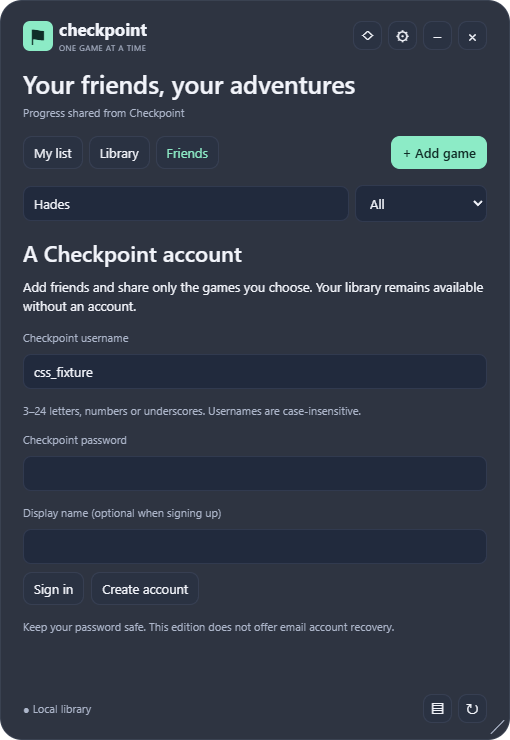
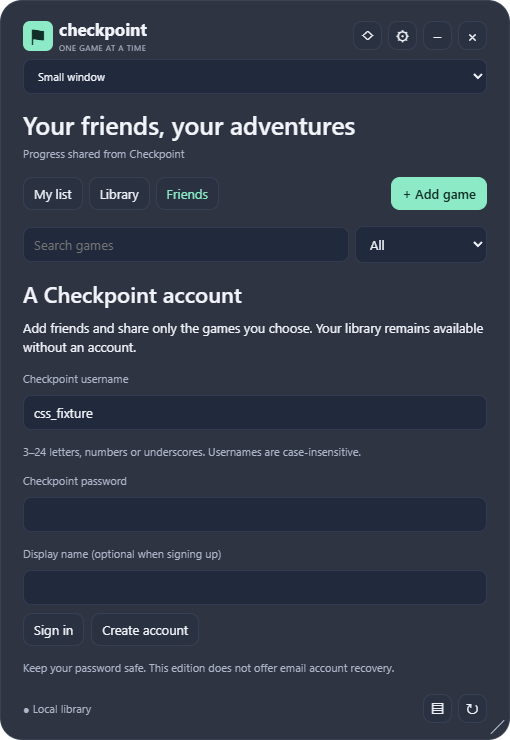
Add full, small and miniature window modes with opaque full view

diff --git a/src/Checkpoint.App/Web/app.js b/src/Checkpoint.App/Web/app.js
@@ -25,6 +25,7 @@ function showMenu(game, x, y) {
     menu.append(el('hr')); entry(state.labels.edit, 'edit', { id: game.id }); menu.append(el('hr'));
   }
   if (state.mini) entry(state.labels.exitMini, 'exit-mini');
+  [state.labels.fullWindow,state.labels.smallWindow,state.labels.miniature].forEach((label,value)=>entry(label,'window-mode',{value},value===(state.mini?2:state.full?0:1)));
   entry(state.labels.settings, 'settings'); entry(state.labels.search, 'search'); entry(state.labels.add, 'add');
   menu.append(el('hr')); entry(state.labels.pin, 'pin', {}, state.pinned); entry(state.labels.locked, 'lock', {}, state.locked);
   document.body.append(menu);
@@ -86,6 +87,7 @@ function frame() {
   const wordmark = el('div'); wordmark.append(el('strong', '', 'checkpoint'), el('div', 'tagline')); brand.append(wordmark);
   brand.addEventListener('pointerdown', e => { if (e.button === 0 && !state.locked) action('drag'); }); header.append(brand);
   for (const [icon, name, label] of [['◇','pin','pin'], ['⚙','settings','settings'], ['−','hide','hide'], ['×','close','close']]) { const node = button(icon, name, icon, {}, 'icon'); node.dataset.label = label; header.append(node); }
+  const modes=el('select','window-mode'); modes.setAttribute('aria-label','Checkpoint'); modes.addEventListener('change',()=>action('window-mode',{value:Number(modes.value)})); header.append(modes);
   const intro = el('section', 'intro'); intro.append(el('h1'), el('div', 'summary'));
   const navigation = el('nav', 'navigation');
   for (const name of ['list','library','friends']) { const node = button('', 'tab', '', { value: name }); node.dataset.tab = name; navigation.append(node); }
@@ -104,7 +106,8 @@ function frame() {
 }
 function renderMain() {
   if (dialogMode || !root.querySelector('.window')) frame(); dialogMode = false;
-  const host = root.querySelector('.window'); host.classList.toggle('mini', state.mini);
+  const host = root.querySelector('.window'); host.classList.toggle('mini', state.mini); host.classList.toggle('full',state.full);
+  const modes=host.querySelector('.window-mode'); modes.replaceChildren(); [state.labels.fullWindow,state.labels.smallWindow,state.labels.miniature].forEach((text,index)=>{const option=el('option','',text);option.value=index;modes.append(option);}); modes.value=state.mini?2:state.full?0:1; modes.setAttribute('aria-label',state.labels.windowMode);
   host.style.setProperty('--opacity', state.opacity); host.style.setProperty('--mini-size', `${state.textSize}px`);
   host.querySelector('.tagline').textContent = state.labels.tagline;
   host.querySelector('h1').textContent = state.tab === 'friends' ? state.labels.friendsTitle : state.labels.title;
@@ -112,10 +115,10 @@ function renderMain() {
   host.querySelectorAll('[data-label]').forEach(node => { const label = state.labels[node.dataset.label]; node.title = label; node.setAttribute('aria-label', label); if (node.classList.contains('add')) node.textContent = '+ '+label; });
   host.querySelectorAll('[data-tab]').forEach(node => { node.textContent = state.labels[node.dataset.tab]; node.classList.toggle('active', state.tab === node.dataset.tab); });
   const search = host.querySelector('#search'); if ((pending.get('search')||0) <= (state.ack||0) && search.value !== state.search) search.value = state.search; search.placeholder = state.labels.search; search.setAttribute('aria-label',state.labels.search);
-  const filter = host.querySelector('select'); filter.replaceChildren(); [state.labels.all,...state.labels.statuses].forEach((text,index) => { const option=el('option','',text); option.value=index; filter.append(option); }); filter.value = state.filter;
+  const filter = host.querySelector('.searchbar select'); filter.replaceChildren(); [state.labels.all,...state.labels.statuses].forEach((text,index) => { const option=el('option','',text); option.value=index; filter.append(option); }); filter.value = state.filter;
   host.querySelector('.connection').textContent = state.connection; host.querySelector('.notice').textContent = state.notice;
   host.querySelector('[data-label="undo"]').hidden = !state.undo; host.querySelector('[data-label="sync"]').disabled = state.busy;
-  host.querySelector('.resize').hidden = state.locked; host.querySelector('.dragstrip').hidden = !state.mini; host.querySelector('[data-label="pin"]').textContent = state.pinned ? '◆' : '◇';
+  host.querySelector('.resize').hidden = state.locked || state.full; host.querySelector('.dragstrip').hidden = !state.mini; host.querySelector('[data-label="pin"]').textContent = state.pinned ? '◆' : '◇';
   host.querySelector('[data-label="view"]').textContent = state.mini ? '☷' : state.grid ? '▦' : state.compact ? '≡' : '▤';
   if (selected && !state.games.some(game => game.id === selected)) selected = undefined;
   if (state.tab === 'friends') preserveTree(() => { const viewport=host.querySelector('.viewport'); const content=el('div','friends-content'); content.append(schema(state.friends)); if (state.friendsBusy) content.querySelectorAll('button,input,select').forEach(node=>node.disabled=true); viewport.replaceChildren(content); });

diff --git a/src/Checkpoint.App/Web/app.css b/src/Checkpoint.App/Web/app.css
@@ -24,3 +24,5 @@ input[type="checkbox"] { accent-color:var(--accent); width:16px; min-height:16px
 .type-text { white-space:pre-wrap; overflow-wrap:anywhere; line-height:1.45; } .type-text.heading { font-size:22px; font-weight:600; } .type-text.muted { margin-top:6px; font-size:11px; } .type-check { display:flex; align-items:center; gap:8px; line-height:1.4; } .type-image { max-width:100%; max-height:140px; border-radius:8px; object-fit:cover; } .type-details>summary { cursor:pointer; margin:8px 0; }
 .type-dock { display:flex; flex-direction:column; gap:8px; padding:20px; min-height:100%; } .type-dock>button { order:2; align-self:flex-end; } .type-dock>.type-scroll { flex:1; } .friends-content>.type-scroll { overflow:visible; } .friends-content .type-row>button { padding:7px 10px; }
 @media (max-width:400px) { .window:not(.mini) { padding:17px 18px 16px; } .navigation { gap:4px; } .navigation button { padding:7px 8px; } .searchbar select { width:115px; } }
+
+.window-mode { width:135px; min-width:0; font-size:11px; } .window.full { border-radius:0; padding:24px 32px; } .window.full .brand { cursor:default; } @media(max-width:540px) { .header { flex-wrap:wrap; } .window-mode { width:100%; order:2; } }

diff --git a/src/Checkpoint.App/WebSmokeTests.cs b/src/Checkpoint.App/WebSmokeTests.cs
@@ -22,7 +22,7 @@ public partial class MainWindow
             throw new TimeoutException("CSS UI condition timed out");
         }
         async Task<bool> Script(WebSurface surface,string script) => await surface.Browser.CoreWebView2.ExecuteScriptAsync(script) == "true";
-        async Task Run(string script) { await web!.Browser.CoreWebView2.ExecuteScriptAsync(script); await Task.Delay(350); }
+        async Task Run(string script) { await web!.Browser.CoreWebView2.ExecuteScriptAsync("(() => {"+script+"})()"); await Task.Delay(350); }
         async Task<WebSurface> Dialog()
         {
             WebSurface? found=null;
@@ -87,7 +87,7 @@ public partial class MainWindow
             Check(await Script(web,"document.activeElement.matches('.minirow')"),"CSS Miniature keyboard navigation focuses an HTML game row");
             var activeGameId=Guid.Parse(JsonSerializer.Deserialize<string>(await web.Browser.CoreWebView2.ExecuteScriptAsync("document.activeElement.dataset.game"))!);
             await Run("document.dispatchEvent(new KeyboardEvent('keydown',{key:'Enter',bubbles:true}));");
-            Check(await Script(web,"document.querySelectorAll('.menu button[role=menuitemradio]').length===7"),"Miniature state and window actions render in an HTML context menu");
+            Check(await Script(web,"document.querySelectorAll('.menu button[role=menuitemradio]').length===10"),"Miniature state and window actions render in an HTML context menu");
             await Run("[...document.querySelectorAll('.menu button')].find(b=>b.textContent.includes('Playing')).click();");
             Check(Store.LoadGames().Single(g=>g.Id==activeGameId).Status==GameStatus.Playing,"HTML state actions persist through the native controller");
             await Capture(web,"css-miniature-en.png");
@@ -133,6 +133,27 @@ public partial class MainWindow
             Check(await Script(notice,"document.body.innerText.includes('The operation could not be completed') && [...document.querySelectorAll('button')].some(b=>b.textContent==='OK')"),"app notices render English text and buttons in CSS");
             await Capture(notice,"css-notice-en.png");
             await notice.Browser.CoreWebView2.ExecuteScriptAsync("document.querySelector('button').click();"); await Task.Delay(200);
+            double smallWidth=Width, smallHeight=Height;
+            Preferences.BackgroundOpacity=.61; Persist(); Refresh();
+            await Run("const mode=document.querySelector('.window-mode');mode.value=0;mode.dispatchEvent(new Event('change',{bubbles:true}));");
+            var area=System.Windows.Forms.Screen.FromHandle(new System.Windows.Interop.WindowInteropHelper(this).Handle).WorkingArea;
+            var dpi=System.Windows.Media.VisualTreeHelper.GetDpi(this);
+            Check(IsFullWindow && Math.Abs(Width-area.Width/dpi.DpiScaleX)<2 && Math.Abs(Height-area.Height/dpi.DpiScaleY)<2 && await Script(web,"window.checkpointState.opacity===1 && getComputedStyle(document.querySelector('.window')).borderRadius==='0px'"),"full window fills monitor work area and renders at maximum opacity");
+            Check(Store.LoadSettings().FullWindow && Math.Abs(Store.LoadSettings().Width-smallWidth)<2 && Math.Abs(Store.LoadSettings().BackgroundOpacity-.61)<.001,"full window saves its mode without overwriting small dimensions or translucency");
+            await Capture(web,"css-full-window-en.png");
+            await Run("const mode=document.querySelector('.window-mode');mode.value=1;mode.dispatchEvent(new Event('change',{bubbles:true}));");
+            Check(!IsFullWindow && Math.Abs(Width-smallWidth)<2 && Math.Abs(Height-smallHeight)<2 && await Script(web,"window.checkpointState.opacity===0.61 && document.querySelector('.window-mode').value==='1'"),"small window restores saved dimensions and translucency");
+            await Run("const mode=document.querySelector('.window-mode');mode.value=2;mode.dispatchEvent(new Event('change',{bubbles:true}));");
+            await Run("document.dispatchEvent(new KeyboardEvent('keydown',{key:'Home',bubbles:true}));document.dispatchEvent(new KeyboardEvent('keydown',{key:'Enter',bubbles:true}));");
+            Check(Preferences.MiniatureView && await Script(web,"[...document.querySelectorAll('.menu button')].some(button=>button.textContent.includes('Full window')) && window.checkpointState.opacity===0.61"),"Miniature keeps translucency and offers all three window modes");
+            await Run("[...document.querySelectorAll('.menu button')].find(button=>button.textContent.includes('Full window')).click();");
+            Check(IsFullWindow && !Preferences.MiniatureView && Store.LoadSettings().FullWindow,"Miniature context menu restores the opaque full window");
+            await Run("document.querySelector('[data-label=settings]').click();");
+            var modesSettings=await Dialog();
+            Check(await Script(modesSettings,"document.querySelector('select[aria-label=\"Window mode\"]').value==='0' && document.body.innerText.includes('100% opacity')"),"settings expose localized window modes and the full-opacity explanation");
+            await modesSettings.Browser.CoreWebView2.ExecuteScriptAsync("const mode=document.querySelector('select[aria-label=\"Window mode\"]');mode.value=1;mode.dispatchEvent(new Event('change',{bubbles:true}));"); await Task.Delay(200);
+            await modesSettings.Browser.CoreWebView2.ExecuteScriptAsync("[...document.querySelectorAll('button')].find(button=>button.textContent==='Save').click();"); await Task.Delay(350);
+            Check(!IsFullWindow && !Preferences.MiniatureView && !Store.LoadSettings().FullWindow,"CSS settings save the small window mode");
             File.WriteAllText(Path.Combine(output,"web-smoke.json"),JsonSerializer.Serialize(new { ok=true, checks=checks.Count, names=checks },DataJson.Options));
             Console.WriteLine("CSS smoke test passed: "+checks.Count+" checks, "+output);
         }

diff --git a/src/Checkpoint.App/MainWindow.xaml.cs b/src/Checkpoint.App/MainWindow.xaml.cs
@@ -46,6 +46,22 @@ public partial class MainWindow : Window
     private Border? dropBorder;
     private int dragScrollDirection;
     private bool? miniatureApplied;
+    private bool fullWindowApplied;
+    internal bool IsFullWindow => Preferences.FullWindow && !Preferences.MiniatureView;
+    internal double EffectiveOpacity => IsFullWindow ? 1 : Preferences.BackgroundOpacity;
+    internal void SetWindowMode(int mode)
+    {
+        if (mode < 0 || mode > 2) return;
+        Preferences.FullWindow = mode == 0; Preferences.MiniatureView = mode == 2;
+        ApplyPreferences(); Persist(); Refresh();
+    }
+    private void FillWorkArea(Forms.Screen? target = null)
+    {
+        var scale = VisualTreeHelper.GetDpi(this);
+        var area = (target ?? Forms.Screen.FromHandle(new WindowInteropHelper(this).Handle)).WorkingArea;
+        Left = area.Left / scale.DpiScaleX; Top = area.Top / scale.DpiScaleY;
+        Width = area.Width / scale.DpiScaleX; Height = area.Height / scale.DpiScaleY;
+    }
 
     public MainWindow(string directory, bool demo)
     {
@@ -149,16 +165,19 @@ public partial class MainWindow : Window
 
     internal void ApplyPreferences()
     {
-        if (miniatureApplied != Preferences.MiniatureView)
+        if (miniatureApplied != Preferences.MiniatureView || fullWindowApplied != IsFullWindow)
         {
             var currentScreen = ready ? Forms.Screen.FromHandle(new WindowInteropHelper(this).Handle) : null;
             if (miniatureApplied.HasValue) CaptureBounds();
+            bool leavingFull = fullWindowApplied;
             miniatureApplied = Preferences.MiniatureView;
+            fullWindowApplied = IsFullWindow;
             MinWidth = Preferences.MiniatureView ? 240 : 365;
             MinHeight = Preferences.MiniatureView ? 90 : 440;
             Width = Math.Clamp(Preferences.MiniatureView ? Preferences.MiniatureWidth : Preferences.Width, MinWidth, SystemParameters.VirtualScreenWidth);
             Height = Math.Clamp(Preferences.MiniatureView ? Preferences.MiniatureHeight : Preferences.Height, MinHeight, SystemParameters.VirtualScreenHeight);
-            if (ready) ClampToScreen(currentScreen);
+            if (fullWindowApplied) FillWorkArea(currentScreen);
+            else { if (leavingFull) { Left = Preferences.Left ?? Left; Top = Preferences.Top ?? Top; } if (ready) ClampToScreen(currentScreen); }
             if (Preferences.MiniatureView) { friendsVisible = false; allLibrary = false; Search.Clear(); StatusFilter.SelectedIndex = 0; }
         }
         bool miniature = Preferences.MiniatureView;
@@ -186,10 +205,10 @@ public partial class MainWindow : Window
         resources["LineBrush"] = Brush(light ? "#607D8EA1" : "#405F6B85");
         resources["AccentBrush"] = Brush(light ? "#FF0B7554" : "#FF8CEBC6");
         var rgb = light ? Color.FromRgb(238, 244, 248) : Color.FromRgb(17, 24, 39);
-        rgb.A = (byte)Math.Round(Math.Clamp(Preferences.BackgroundOpacity, .35, 1) * 255);
+        rgb.A = (byte)Math.Round(Math.Clamp(EffectiveOpacity, .35, 1) * 255);
         Shell.Background = new SolidColorBrush(rgb);
         Topmost = Preferences.AlwaysOnTop; PinButton.Content = Topmost ? "◆" : "◇";
-        ResizeGrip.Visibility = Preferences.PositionLocked ? Visibility.Collapsed : Visibility.Visible;
+        ResizeGrip.Visibility = Preferences.PositionLocked || IsFullWindow ? Visibility.Collapsed : Visibility.Visible;
         timer.Interval = TimeSpan.FromMinutes(Math.Clamp(Preferences.SyncMinutes, 15, 120));
         Covers.SetEnabled(!Preferences.LightweightMode && !miniature);
         ViewButton.Content = miniature ? "☷" : Preferences.GridView ? "▦" : Preferences.Compact ? "≡" : "▤";
@@ -202,6 +221,7 @@ public partial class MainWindow : Window
     internal void Persist() { CaptureBounds(); Store.Save(Games, Preferences); SchedulePublications(); }
     private void CaptureBounds()
     {
+        if (fullWindowApplied) return;
         if (miniatureApplied == true) { Preferences.MiniatureWidth = Width; Preferences.MiniatureHeight = Height; }
         else { Preferences.Width = Width; Preferences.Height = Height; }
         Preferences.Left = Left; Preferences.Top = Top;
@@ -517,7 +537,7 @@ public partial class MainWindow : Window
         });
         Persist(); Notice(I18n.T("Juegos de ejemplo añadidos. El progreso de Steam aún no se ha consultado."));
     }
-    internal void ShowWidget() { Show(); WindowState = WindowState.Normal; if (ready) ClampToScreen(); Activate(); }
+    internal void ShowWidget() { Show(); WindowState = WindowState.Normal; if (ready) { if (IsFullWindow) FillWorkArea(); else ClampToScreen(); } Activate(); }
     private void ToggleVisible() { if (IsVisible) Hide(); else ShowWidget(); }
     internal void Exit() { exiting = true; Close(); }
     protected override void OnClosing(CancelEventArgs e)

diff --git a/src/Checkpoint.App/WebInterface.cs b/src/Checkpoint.App/WebInterface.cs
@@ -23,7 +23,7 @@ public partial class MainWindow
     private object WebSnapshot() => new
     {
         kind="main", language=I18n.Language, light=Preferences.LightTheme,
-        opacity=Preferences.BackgroundOpacity, mini=Preferences.MiniatureView, compact=Preferences.Compact,
+        opacity=EffectiveOpacity, full=IsFullWindow, mini=Preferences.MiniatureView, compact=Preferences.Compact,
         grid=Preferences.GridView, textSize=Preferences.MiniatureTextSize, locked=Preferences.PositionLocked,
         pinned=Preferences.AlwaysOnTop, lightweight=Preferences.LightweightMode, busy=syncing,
         tab=friendsVisible ? "friends" : allLibrary ? "library" : "list", search=Search.Text, filter=StatusFilter.SelectedIndex,
@@ -36,6 +36,7 @@ public partial class MainWindow
             steam=I18n.T("Conectar Steam"), edit=I18n.T("Editar juego"), exitMini=I18n.T("Salir de miniatura"),
             locked=I18n.T("Bloquear posición y tamaño"), view=I18n.T("Cambiar vista"), undo=I18n.T("Recuperar último juego eliminado"),
             examples=I18n.T("Añadir ejemplos"), finish=I18n.T("Marcar o desmarcar historia terminada"),
+            windowMode=I18n.T("Modo de ventana"), fullWindow=I18n.T("Ventana completa"), smallWindow=I18n.T("Ventana pequeña"), miniature=I18n.T("Miniatura"),
             all=I18n.T("Todos"), statuses=Enum.GetValues<GameStatus>().Select(Labels.Status).ToArray() },
         games=(friendsVisible ? Enumerable.Empty<CardView>() : visibleCards).Select(card => new { id=card.Model.Id, title=card.Model.Title, platform=card.Model.Platform,
             state=(int)card.Model.Status, status=card.Model.StatusText, next=card.Model.NextTask,
@@ -53,6 +54,7 @@ public partial class MainWindow
         switch (action)
         {
             case "ready": break;
+            case "window-mode": if (message.GetProperty("value").TryGetInt32(out int mode)) SetWindowMode(mode); break;
             case "tab":
                 switch (message.GetProperty("value").GetString()) { case "friends": Click(FriendsButton); break; case "library": Click(LibraryButton); break; case "list": Click(TrackedButton); break; }
                 break;
@@ -76,9 +78,9 @@ public partial class MainWindow
             case "exit-mini": Preferences.MiniatureView=false; ApplyPreferences(); Persist(); Refresh(); break;
             case "hide": Hide(); break;
             case "close": Close(); break;
-            case "drag": if (!Preferences.PositionLocked && System.Windows.Input.Mouse.LeftButton == System.Windows.Input.MouseButtonState.Pressed) DragMove(); break;
+            case "drag": if (!IsFullWindow && !Preferences.PositionLocked && System.Windows.Input.Mouse.LeftButton == System.Windows.Input.MouseButtonState.Pressed) DragMove(); break;
             case "resize":
-                if (!Preferences.PositionLocked && message.GetProperty("x").TryGetDouble(out double x) && message.GetProperty("y").TryGetDouble(out double y) && double.IsFinite(x) && double.IsFinite(y))
+                if (!IsFullWindow && !Preferences.PositionLocked && message.GetProperty("x").TryGetDouble(out double x) && message.GetProperty("y").TryGetDouble(out double y) && double.IsFinite(x) && double.IsFinite(y))
                 { Width=Math.Clamp(Width+Math.Clamp(x,-200,200),MinWidth,SystemParameters.VirtualScreenWidth); Height=Math.Clamp(Height+Math.Clamp(y,-200,200),MinHeight,SystemParameters.VirtualScreenHeight); }
                 break;
             case "move" when game is not null:

diff --git a/src/Checkpoint.App/Dialogs.cs b/src/Checkpoint.App/Dialogs.cs
@@ -227,6 +227,11 @@ internal static class Dialogs
         opacity.ValueChanged += (_, _) => { prefs.BackgroundOpacity = opacity.Value; opacityText.Text = (int)(opacity.Value * 100) + I18n.T("% · textos y carátulas permanecen legibles"); owner.ApplyPreferences(); };
         opacityText.Text = (int)(opacity.Value * 100) + I18n.T("% · textos y carátulas permanecen legibles");
         var top = Check(body, I18n.T("Mantener siempre visible"), prefs.AlwaysOnTop); var position = Check(body, I18n.T("Bloquear posición y tamaño"), prefs.PositionLocked);
+        Label(body, I18n.T("Modo de ventana"));
+        int initialMode = prefs.MiniatureView ? 2 : prefs.FullWindow ? 0 : 1;
+        var windowMode = new ComboBox { ItemsSource = new[] { I18n.T("Ventana completa"), I18n.T("Ventana pequeña"), I18n.T("Miniatura") }, SelectedIndex = initialMode };
+        System.Windows.Automation.AutomationProperties.SetName(windowMode, I18n.T("Modo de ventana")); body.Children.Add(windowMode);
+        body.Children.Add(new TextBlock { Text = I18n.T("La ventana completa ocupa el área de trabajo y utiliza opacidad al 100 %. La pequeña y Miniatura conservan tu opacidad."), TextWrapping = TextWrapping.Wrap, FontSize = 11 });
         Label(body, I18n.T("Vista de la colección"));
         var view = new ComboBox { ItemsSource = new[] { I18n.T("Lista"), I18n.T("Compacta"), I18n.T("Cuadrícula de carátulas"), I18n.T("Miniatura") }, SelectedIndex = prefs.MiniatureView ? 3 : prefs.GridView ? 2 : prefs.Compact ? 1 : 0 };
         System.Windows.Automation.AutomationProperties.SetName(view, I18n.T("Vista de la colección")); body.Children.Add(view);
@@ -285,8 +290,9 @@ internal static class Dialogs
                 if (!string.IsNullOrWhiteSpace(endpoint.Text)) SteamClient.ValidateServiceUrl(endpoint.Text);
                 if ((startup.IsChecked == true) != prefs.StartWithWindows) SetStartup(startup.IsChecked == true);
                 prefs.BackgroundOpacity = opacity.Value; prefs.AlwaysOnTop = top.IsChecked == true; prefs.PositionLocked = position.IsChecked == true;
-                prefs.MiniatureView = view.SelectedIndex == 3;
-                if (!prefs.MiniatureView) { prefs.Compact = view.SelectedIndex == 1; prefs.GridView = view.SelectedIndex == 2; }
+                prefs.FullWindow = windowMode.SelectedIndex == 0;
+                prefs.MiniatureView = windowMode.SelectedIndex != initialMode ? windowMode.SelectedIndex == 2 : view.SelectedIndex == 3;
+                if (!prefs.MiniatureView && view.SelectedIndex != 3) { prefs.Compact = view.SelectedIndex == 1; prefs.GridView = view.SelectedIndex == 2; }
                 prefs.LightTheme = light.IsChecked == true; prefs.CloseToTray = tray.IsChecked == true; prefs.StartWithWindows = startup.IsChecked == true;
                 prefs.ServiceUrl = endpoint.Text.Trim(); prefs.SyncMinutes = new[] { 15, 30, 60, 120 }[interval.SelectedIndex];
                 prefs.Language = language.SelectedIndex == 1 ? "en" : "es";

diff --git a/tests/Checkpoint.Tests/Program.cs b/tests/Checkpoint.Tests/Program.cs
@@ -107,4 +107,11 @@ var resourceKeys = JsonSerializer.Deserialize<Dictionary<string,string>>(File.Re
 Check(resourceKeys.Values.All(key => I18n.TryTranslateKnown(key, out _)), "all XAML strings have English translations");
 Check(translatedLiterals > 250, "all literal app and core messages have English translations");
 I18n.SetLanguage("es");
+Check(!JsonSerializer.Deserialize<Settings>("{\"Width\":480,\"MiniatureView\":false}")!.FullWindow, "previous settings retain the small window default");
+using (var modes = new SqliteStore(Path.Combine(root,"window-modes")))
+{
+    modes.SaveSettings(new Settings { FullWindow=true, Width=480, Height=650, BackgroundOpacity=.57 });
+    var restored=modes.LoadSettings();
+    Check(restored.FullWindow && restored.Width==480 && restored.Height==650 && restored.BackgroundOpacity==.57,"full window preference retains small dimensions and opacity through SQLite reload");
+}
 Console.WriteLine($"{passed} checks passed. Test files: {root}");

diff --git a/src/Checkpoint.Core/Models.cs b/src/Checkpoint.Core/Models.cs
@@ -85,6 +85,7 @@ public sealed class Settings
     public bool PositionLocked { get; set; }
     public bool Compact { get; set; }
     public bool GridView { get; set; }
+    public bool FullWindow { get; set; }
     public bool MiniatureView { get; set; }
     public double MiniatureWidth { get; set; } = 300;
     public double MiniatureHeight { get; set; } = 220;

diff --git a/README.es.md b/README.es.md
@@ -18,12 +18,12 @@ Capturas de la interfaz HTML/CSS real en WebView2 con datos de prueba aislados. 
 
 ## Descargar y utilizar
 
-La versión actual es **0.7.0**. En la carpeta `dist` se generan:
+La versión actual es **0.7.1**. En la carpeta `dist` se generan:
 
-Descarga el portable o instalador desde [GitHub Releases](https://github.com/Nicolasmf05/Checkpoint/releases/tag/v0.7.0), o compila con las instrucciones de este repositorio. El workflow **Build and verify** también genera el ZIP y MSI como artefactos cuando finaliza correctamente.
+Descarga el portable o instalador desde [GitHub Releases](https://github.com/Nicolasmf05/Checkpoint/releases/tag/v0.7.1), o compila con las instrucciones de este repositorio. El workflow **Build and verify** también genera el ZIP y MSI como artefactos cuando finaliza correctamente.
 
-- `Checkpoint-0.7.0-win-x64.msi`: instalador por usuario con acceso en el menú Inicio y desinstalación desde Windows.
-- `Checkpoint-0.7.0-win-x64.zip`: edición portable. Extrae el ZIP y abre `Checkpoint/Checkpoint.exe`. Todos los archivos quedan dentro de la carpeta `Checkpoint`.
+- `Checkpoint-0.7.1-win-x64.msi`: instalador por usuario con acceso en el menú Inicio y desinstalación desde Windows.
+- `Checkpoint-0.7.1-win-x64.zip`: edición portable. Extrae el ZIP y abre `Checkpoint/Checkpoint.exe`. Todos los archivos quedan dentro de la carpeta `Checkpoint`.
 - Archivos `.sha256`: comprobación de integridad.
 
 Los paquetes incluyen el runtime de .NET; el usuario no necesita instalar herramientas de desarrollo. La versión x64 está dirigida a Windows 11; Windows 10 no ha sido validado. La compilación ARM64 está preparada en el script, pero no se ha probado en hardware ARM.
@@ -41,6 +41,10 @@ WebView2 se comparte con otras aplicaciones y viene incluido en Windows 11. Si f
 ## Tecnología de la interfaz
 
 La colección, Miniatura, amigos, editores, ajustes y avisos propios se muestran con **HTML, CSS y JavaScript locales en WebView2**. El diseño se modifica en `src/Checkpoint.App/Web/app.css`. C#/.NET conserva SQLite, Steam, Supabase, bandeja y ventana nativa. WPF sigue como contenedor y controladores de formularios; los selectores de archivos de Windows y el aviso de falta de WebView2 son nativos. Sin framework JavaScript ni interfaz remota. [Arquitectura y desarrollo](docs/CSS-INTERFACE.md).
+
+## Modos de ventana
+
+Usa el selector de la cabecera o Ajustes → Modo de ventana: **Ventana completa**, **Ventana pequeña**, **Miniatura**. La completa ocupa el área de trabajo del monitor actual, dejando disponible la barra de tareas, y utiliza siempre **opacidad al 100 %**. La pequeña recupera su tamaño guardado y opacidad elegida. Miniatura conserva la lista de nombre/estado y su tamaño independiente; con clic derecho puedes elegir cualquiera de los tres modos. La elección se guarda al reiniciar. Las vistas de colección (lista, compacta, cuadrícula) son independientes.
 
 ## Incluido
 
@@ -149,7 +153,7 @@ dotnet run --project src/Checkpoint.App -c Release --no-build -- --data-dir "$PW
 
 Usa siempre una carpeta nueva para `--smoke-test`: esta comprobación modifica su biblioteca de prueba y rechaza una carpeta con biblioteca o sesión existentes. El modo `--demo` añade tres juegos de ejemplo únicamente a una biblioteca vacía. No inventa logros. Las pruebas de Steam y las pruebas del diálogo de logros usan respuestas simuladas y no necesitan contraseñas ni claves reales.
 
-`Build.ps1` comprueba también el ZIP recién generado: lo extrae a `.qa`, ejecuta su app autocontenida y valida búsqueda, vistas, reordenación, persistencia, diálogos, secretos, recuperación, copias con imágenes, cuentas y amistades simuladas, y virtualización con 1.003 juegos. Puedes repetir solo esa comprobación con `./scripts/Verify-Package.ps1 -ZipPath ./dist/Checkpoint-0.7.0-win-x64.zip`. También se ejecuta la interfaz HTML real con 1.004 juegos, formularios, menús y cambios de idioma. Las imágenes y los informes quedan en `.qa/package-…/render` y `.qa/web-package-…/render`. La ejecución ARM64 necesita un equipo Windows ARM64; en otros equipos se comprueba la estructura del paquete.
+`Build.ps1` comprueba también el ZIP recién generado: lo extrae a `.qa`, ejecuta su app autocontenida y valida búsqueda, vistas, reordenación, persistencia, diálogos, secretos, recuperación, copias con imágenes, cuentas y amistades simuladas, y virtualización con 1.003 juegos. Puedes repetir solo esa comprobación con `./scripts/Verify-Package.ps1 -ZipPath ./dist/Checkpoint-0.7.1-win-x64.zip`. También se ejecuta la interfaz HTML real con 1.004 juegos, formularios, menús y cambios de idioma. Las imágenes y los informes quedan en `.qa/package-…/render` y `.qa/web-package-…/render`. La ejecución ARM64 necesita un equipo Windows ARM64; en otros equipos se comprueba la estructura del paquete.
 
 La integración con una cuenta real y la instalación/desinstalación del MSI deben validarse en un entorno de lanzamiento antes de publicar. Consulta [docs/VALIDATION.md](docs/VALIDATION.md).
 
@@ -159,11 +163,11 @@ El proyecto incluye `.gitignore`, licencia MIT, documentación, pruebas y un wor
 
 Publica únicamente los archivos de código y documentación. `.tools`, `.qa`, `dist`, `.env`, bases de datos y tokens son locales y se excluyen.
 
-También se entrega `dist/Checkpoint-source-0.7.0.zip`, con el código limpio para trasladarlo a GitHub. `scripts/Export-Source.ps1` lo regenera usando ripgrep y las exclusiones de `.gitignore`. La versión de los ejecutables, nombres de archivo e instalador se toma de `Directory.Build.props`.
+También se entrega `dist/Checkpoint-source-0.7.1.zip`, con el código limpio para trasladarlo a GitHub. `scripts/Export-Source.ps1` lo regenera usando ripgrep y las exclusiones de `.gitignore`. La versión de los ejecutables, nombres de archivo e instalador se toma de `Directory.Build.props`.
 
 ## Próximas versiones
 
-El backend de cuentas y amistades está desplegado en Supabase y la app 0.7.0 incorpora la pestaña Amigos. Han pasado 33 comprobaciones SQL y 7 HTTP del backend; queda validar el registro y el intercambio de imágenes con dos cuentas reales. El estado, configuración pública y pasos pendientes están en [docs/SUPABASE.md](docs/SUPABASE.md).
+El backend de cuentas y amistades está desplegado en Supabase y la app 0.7.1 incorpora la pestaña Amigos. Han pasado 33 comprobaciones SQL y 7 HTTP del backend; queda validar el registro y el intercambio de imágenes con dos cuentas reales. El estado, configuración pública y pasos pendientes están en [docs/SUPABASE.md](docs/SUPABASE.md).
 
 Notificaciones, estadísticas mensuales y sincronización de la biblioteca entre equipos quedan para futuras versiones. Consulta [docs/ROADMAP.md](docs/ROADMAP.md) y [CHANGELOG.md](CHANGELOG.md).
 
@@ -175,4 +179,4 @@ La app incluye la dirección del servicio Steam de Supabase, ya desplegado y con
 
 Los avisos, menús y ventanas de Checkpoint siguen el idioma elegido en Ajustes. Los errores técnicos externos se muestran como explicaciones traducidas. Los títulos de juegos, notas, tareas y nombres de personas conservan su contenido. Los cuadros del sistema, como el selector de archivos o SmartScreen, siguen el idioma de Windows.
 
-Tu código de amigo se muestra y copia completo desde Amigos → Cuenta: `checkpoint-` seguido de 12 caracteres. Usa Checkpoint 0.7.0 o posterior para introducir este formato; también acepta códigos copiados de versiones anteriores sin cambiar la cuenta.
+Tu código de amigo se muestra y copia completo desde Amigos → Cuenta: `checkpoint-` seguido de 12 caracteres. Usa Checkpoint 0.7.1 o posterior para introducir este formato; también acepta códigos copiados de versiones anteriores sin cambiar la cuenta.

diff --git a/README.md b/README.md
@@ -18,13 +18,13 @@ Current captures come from the actual local HTML/CSS interface in WebView2, usin
 
 ## Download and run
 
-Current version: **0.7.0**. Build outputs in `dist`:
+Current version: **0.7.1**. Build outputs in `dist`:
 
-- `Checkpoint-0.7.0-win-x64.zip`: portable edition. Extract the ZIP and open `Checkpoint/Checkpoint.exe`. All files stay inside the `Checkpoint` folder.
-- `Checkpoint-0.7.0-win-x64.msi`: per-user installer with Start menu shortcut and Windows uninstall support.
+- `Checkpoint-0.7.1-win-x64.zip`: portable edition. Extract the ZIP and open `Checkpoint/Checkpoint.exe`. All files stay inside the `Checkpoint` folder.
+- `Checkpoint-0.7.1-win-x64.msi`: per-user installer with Start menu shortcut and Windows uninstall support.
 - `.sha256` files: integrity checksums.
 
-Download the portable ZIP or MSI from [GitHub Releases](https://github.com/Nicolasmf05/Checkpoint/releases/tag/v0.7.0), or build from source below. The **Build and verify** GitHub Actions workflow also produces artifacts after a successful run. Packages include the .NET runtime; end users need no development tools. Windows 11 x64 is the target. Windows 10 and ARM64 hardware have not been validated; ARM64 packaging is supported. The MSI and EXE are unsigned; Windows may warn or block them. See [Windows security messages](docs/en/WINDOWS-SECURITY.md). No private certificates are included.
+Download the portable ZIP or MSI from [GitHub Releases](https://github.com/Nicolasmf05/Checkpoint/releases/tag/v0.7.1), or build from source below. The **Build and verify** GitHub Actions workflow also produces artifacts after a successful run. Packages include the .NET runtime; end users need no development tools. Windows 11 x64 is the target. Windows 10 and ARM64 hardware have not been validated; ARM64 packaging is supported. The MSI and EXE are unsigned; Windows may warn or block them. See [Windows security messages](docs/en/WINDOWS-SECURITY.md). No private certificates are included.
 
 
 Microsoft Store packaging is being prepared separately: [MSIX build and submission guide](docs/en/MICROSOFT-STORE.md). The unsigned MSIX preview is for developer validation and does not remove warnings from the current GitHub downloads.
@@ -36,6 +36,10 @@ Windows x64 (Windows 11 tested), **Microsoft Edge WebView2 Evergreen Runtime**, 
 ## Interface technology
 
 The visible collection, Miniature, friends, editors, settings and app notices use **local HTML, CSS and JavaScript in WebView2**. Style them in `src/Checkpoint.App/Web/app.css`. C#/.NET handles SQLite, Steam, Supabase, the tray and native window. WPF remains the window shell and existing form controllers; Windows file pickers and the missing-runtime notice remain native. No JavaScript framework or remote interface is required. [Architecture and development](docs/en/CSS-INTERFACE.md).
+
+## Window modes
+
+Use the header selector or Settings → Window mode: **Full window**, **Small window**, **Miniature**. Full window fills the current monitor work area, leaving the taskbar available, and always uses **100% opacity**. Small window restores its saved size and chosen opacity. Miniature keeps the names/states-only list and its own saved dimensions; right-click to choose any window mode. The mode persists across restarts. Collection layouts (list, compact, grid) remain separate.
 
 ## Features
 
@@ -127,13 +131,13 @@ dotnet run --project src/Checkpoint.App -c Release --no-build -- --data-dir "$PW
 
 Native tests reject existing libraries/sessions/publications and exercise real controls with simulated Steam/social responses. Demo adds examples only to an empty library. Build extracts and tests its self-contained ZIP, including language switching and virtualized rendering of 1,003 games. The CSS suite separately launches the actual HTML interface with 1,004 games, forms, menus and language changes. Reports and captures: `.qa/package-…/render` and `.qa/web-package-…/render`.
 
-Repeat using `./scripts/Verify-Package.ps1 -ZipPath ./dist/Checkpoint-0.7.0-win-x64.zip`. ARM64 execution needs Windows ARM64 hardware. [Validation](docs/en/VALIDATION.md) lists remaining real-account/Storage and clean-machine MSI checks.
+Repeat using `./scripts/Verify-Package.ps1 -ZipPath ./dist/Checkpoint-0.7.1-win-x64.zip`. ARM64 execution needs Windows ARM64 hardware. [Validation](docs/en/VALIDATION.md) lists remaining real-account/Storage and clean-machine MSI checks.
 
 ## GitHub
 
 MIT license, source, docs and build workflow are included. Set repository variable `CHECKPOINT_SERVICE_URL` for a hosted Steam service. The workflow uploads artifacts but does not publish a release automatically. Never upload `.tools`, `.qa`, `dist`, `.env`, databases, tokens or private keys.
 
-`scripts/Export-Source.ps1` creates `dist/Checkpoint-source-0.7.0.zip` using ripgrep and `.gitignore`. Versions come from `Directory.Build.props`. Built-in translations live in `src/Checkpoint.Core/Localization/en.json`, XAML keys in `src/Checkpoint.App/LocalizationKeys.json`. User content and API wire values are not translated.
+`scripts/Export-Source.ps1` creates `dist/Checkpoint-source-0.7.1.zip` using ripgrep and `.gitignore`. Versions come from `Directory.Build.props`. Built-in translations live in `src/Checkpoint.Core/Localization/en.json`, XAML keys in `src/Checkpoint.App/LocalizationKeys.json`. User content and API wire values are not translated.
 
 See [roadmap](docs/en/ROADMAP.md) and [changelog](CHANGELOG.md). Notifications, monthly statistics and private-library cloud sync are future work.
 
@@ -141,4 +145,4 @@ Checkpoint is independent of Valve. Games, artwork and trademarks belong to thei
 
 Checkpoint notices, menus and windows follow the language selected in Settings. External technical errors appear as translated explanations. Game titles, notes, tasks and player names keep their original content. System dialogs, including file pickers and SmartScreen, follow the Windows language.
 
-Your complete friend code appears and copies from Friends → Account: `checkpoint-` followed by 12 characters. Use Checkpoint 0.7.0 or later to enter this format; codes copied from earlier versions still identify the same account.
+Your complete friend code appears and copies from Friends → Account: `checkpoint-` followed by 12 characters. Use Checkpoint 0.7.1 or later to enter this format; codes copied from earlier versions still identify the same account.

diff --git a/docs/DOWNLOAD-NOTES.md b/docs/DOWNLOAD-NOTES.md
@@ -20,6 +20,10 @@ La vía alternativa es Microsoft Store con MSIX, donde Microsoft firma tras apro
 
 Portable: extrae el ZIP y abre `Checkpoint.exe` dentro de `Checkpoint`. Conserva todos los archivos juntos. El MSI instala para tu usuario. Ambas ediciones incluyen este aviso y su traducción inglesa.
 
+## Modos de ventana
+
+Elige Ventana completa, Ventana pequeña o Miniatura desde la cabecera o Ajustes → Modo de ventana. La completa ocupa el área de trabajo (mantiene disponible la barra de tareas) al 100 % de opacidad. Volver a la pequeña recupera tamaño, posición y opacidad guardados. Miniatura mantiene solo nombre/estado y su tamaño propio; su menú con clic derecho ofrece los tres modos. La elección se guarda. El control de opacidad configura la pequeña/Miniatura; nunca hace translúcida la completa.
+
 ## Vista Miniatura
 
 Selecciona **Ajustes → Vista de la colección → Miniatura**, o pulsa F6 hasta llegar a ella. Muestra únicamente **nombre y estado** de los juegos de Mi lista, sin carátulas, botones de fila ni barras de progreso. Oculta cabecera, navegación, filtros y pie. Su ventana puede reducirse hasta 240 × 90 unidades lógicas de Windows. Arrastra el borde superior y redimensiona desde la esquina inferior derecha. **F6 o clic derecho → Salir de miniatura** vuelve a la vista normal. Ambos tamaños se guardan por separado; no modifica el progreso ni los archivos. No carga carátulas mientras está activa.

diff --git a/docs/VALIDATION.md b/docs/VALIDATION.md
@@ -2,6 +2,10 @@
 
 # Validación
 
+## 0.7.1 — modos de ventana
+
+Han pasado 375 comprobaciones: 130 de biblioteca, 15 del servicio, 14 Edge, 175 de controladores nativos, 4 del modelo de interfaz y 37 CSS reales. Las nuevas pruebas verifican área de trabajo y CSS opaco de la completa, modo guardado en SQLite sin sobrescribir tamaño/opacidad de la pequeña, vuelta a pequeña, cambios desde Miniatura y Ajustes traducidos. Las preferencias anteriores conservan pequeña como predeterminado. Captura de la completa en WebView2 real. Siguen pendientes varios monitores/DPI físicos, actualizaciones instaladas y cuentas reales.
+
 ## 0.7.0 — interfaz CSS
 
 Han pasado 366 comprobaciones: 128 de biblioteca, 15 Node del servicio, 14 Edge de Supabase, 175 de regresión de controladores nativos, 4 del modelo de interfaz y 30 en WebView2 real. El ZIP extraído ejecuta ambas pruebas con datos nuevos y aislados. CSS comprueba carátulas locales, juegos/notas guardados en SQLite, confirmación de valores escritos, contraseñas conservadas sin aparecer en instantáneas, español/inglés, ajustes, acceso a amigos, menús/foco/edición en Miniatura, virtualización de 1.004 juegos, cuadrícula, compacta clara, orden por teclado, texto seguro y bloqueo de navegación remota. Las capturas proceden de WebView2, no de los controles WPF antiguos.
